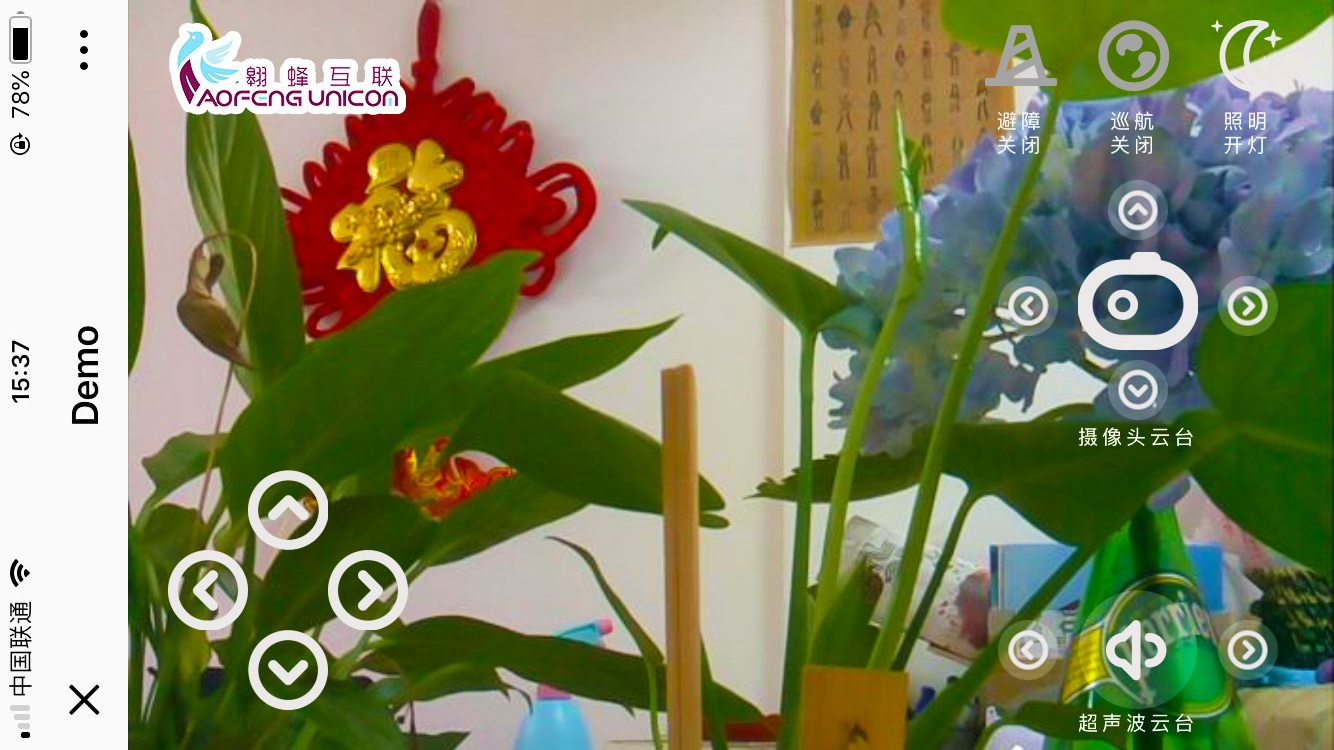
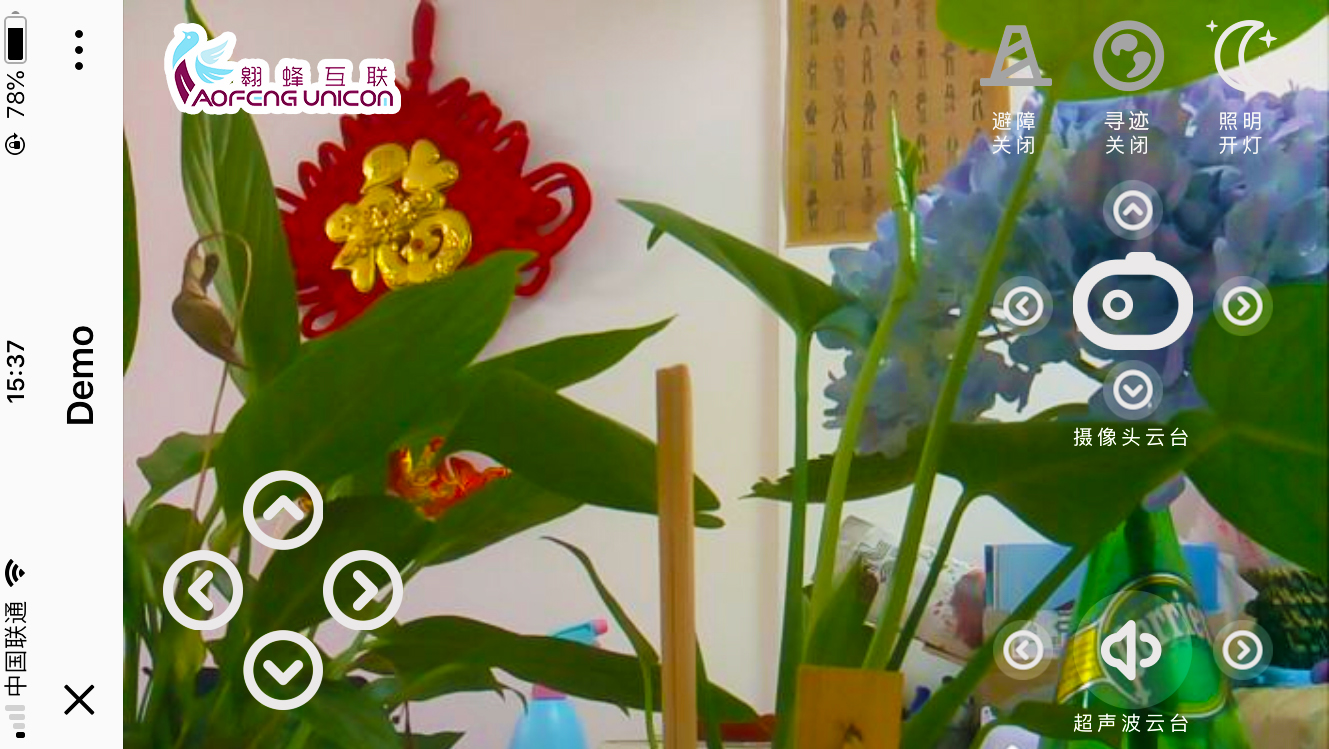
更新文件

diff --git a/static/css/play.css b/static/css/play.css
@@ -14,8 +14,8 @@
     /*左侧按钮区*/
     .controlwarp{
       position: absolute;
-      left:10px;
-      bottom: 10px;
+      left:20px;
+      bottom: 20px;
       width: 120px;
       height: 120px;
     }
@@ -116,7 +116,7 @@
       letter-spacing: 2px
     }
     .functiontop{
-      width: 120px;
+      width: 180px;
       text-align:center;
       height: 60px;
       float: right;
@@ -125,6 +125,16 @@
       display: inline-block;
       width: 36px;
       margin:0 7px;
+    }
+    .functiontop span{
+      font-size: 10px;
+      color: #eee;
+      line-height: 8px;
+    }
+    .functiontop .text{
+      font-size: 10px;
+      color: #eee;
+      line-height: 2px;
     }
     /*巡航*/
     .cruise-off {
@@ -206,20 +216,58 @@
         background-size: cover;
       }
     }
+    /*避障*/
+    .autocross-off {
+      height:36px;
+      width: 36px;
+      background-image: url('../images/autocross-off@2x.png');
+    }
+
+    @media all and (-webkit-min-device-pixel-ratio: 1.5) {
+      .autocross-off {
+        background-image: url('../images/autocross-off@2x.png');
+        background-size: cover;
+      }
+    }
+    @media all and (-webkit-min-device-pixel-ratio: 2) {
+      .autocross-off {
+        background-image: url('../images/autocross-off@3x.png');
+        background-size: cover;
+      }
+    }
+    .autocross-on {
+      height:36px;
+      width: 36px;
+      background-image: url('../images/autocross-on@2x.png');
+    }
+
+    @media all and (-webkit-min-device-pixel-ratio: 1.5) {
+      .autocross-on {
+        background-image: url('../images/autocross-on@2x.png');
+        background-size: cover;
+      }
+    }
+    @media all and (-webkit-min-device-pixel-ratio: 2) {
+      .autocross-on {
+        background-image: url('../images/autocross-on@3x.png');
+        background-size: cover;
+      }
+    }
     /*中间摄像头*/
     .functionmiddle{
       width: 140px;
       text-align:center;
       position: relative;
-      height: 150px;
-      margin-top: 80px
+      height: 140px;
+      margin-top: 80px;
+      margin-left: 22px;
     }
 
     .camera-middle{
       display: inline-block;
       position: absolute;
       left: 40px;
-      top: 35px;
+      top: 30px;
     }
     .camera-text{
       line-height: 20px;
@@ -288,7 +336,7 @@
     .camera-right {
       position: absolute;
       left: 110px;
-      top: 50px;
+      top: 48px;
       height:30px;
       width: 30px;
       background-image: url('../images/sright@2x.png');
@@ -310,7 +358,7 @@
     .camera-down {
       position: absolute;
       left: 55px;
-      top: 100px;
+      top: 90px;
       height:30px;
       width: 30px;
       background-image: url('../images/sdown@2x.png');
@@ -331,7 +379,7 @@
 
     .camera-left {
       position: absolute;
-      top: 50px;
+      top: 48px;
       height:30px;
       width: 30px;
       background-image: url('../images/sleft@2x.png');
@@ -349,21 +397,38 @@
         background-size: cover;
       }
     }
+    .voice-texts{
+      padding:0;
+      font-size: 10px;
+      color: #f8f8f8;
+      line-height: 10px;
+      top: 124px;
+      left: 40px;
+      position:  absolute;
+    }
     /*下方超声波*/
     .functionbottom{
       width: 140px;
       text-align:center;
       height: 80px;
       position: absolute;
-      bottom: 0;
+      bottom: 10px;
+      margin-left: 22px;
     }
     .voice-middle{
       display: inline-block;
       position: absolute;
       left: 40px;
+      top: 20px;
     }
-    .voice-text{
+    .voice-textv{
       padding:0;
+      font-size: 10px;
+      color: #f8f8f8;
+      line-height: 10px;
+      top: 82px;
+      left: 40px;
+      position:  absolute;
     }
     .voice-off {
       height:60px;
@@ -404,7 +469,7 @@
     .voice-left {
       background-image: url('../images/sleft@2x.png');
       position: absolute;
-      top: 15px;
+      top: 35px;
       height:30px;
       width: 30px;
     }
@@ -425,7 +490,7 @@
       background-image: url('../images/sright@2x.png');
       position: absolute;
       left: 110px;
-      top: 15px;
+      top: 35px;
       height:30px;
       width: 30px;
     }

diff --git a/templates/index.html b/templates/index.html
@@ -30,13 +30,13 @@
       <div class="functionwarp">
         <div class="functiontop">
           <div class="functiontop-left">
-            <div class="autocross-off"></div><p class="autocross-text">开启</p>
+            <div class="autocross-off"></div><span>避障</span><p class="autocross-text text">开启</p>
           </div>
           <div class="functiontop-left">
-            <div class="cruise-off"></div><p class="cruise-text">开启</p>
+            <div class="cruise-off"></div><span>寻迹</span><p class="cruise-text text">开启</p>
           </div>
           <div class="functiontop-right">
-            <div class="light-off"></div><p class="light-text">开启</p>
+            <div class="light-off"></div><span>照明</span><p class="light-text text">开启</p>
           </div>
         </div>
         <div class="functionmiddle">
@@ -44,18 +44,20 @@
           <div class="camera-right btnsmall"></div>
           <div class="camera-down btnsmall"></div>
           <div class="camera-left btnsmall"></div>
-          <div class="camera-middle"><div class="camera-on"></div><p class="voice-text">摄像头云台</p></div>
+          <div class="camera-middle"><div class="camera-on"></div></div>
+          <p class="voice-texts">摄像头云台</p>
         </div>
         <div class="functionbottom">
           <div class="voice-left btnsmall"></div>
           <div class="voice-right btnsmall"></div>
-          <div class="voice-middle"><div class="voice-on"></div><p class="voice-text">超声波云台</p></div>
+          <div class="voice-middle"><div class="voice-on"></div></div>
+          <p class="voice-textv">超声波云台</p>
         </div>
       </div>
     </div>
   </div>
   <div>
-    <img id="streamimage" class="" src="http://192.168.1.222:8080/?action=stream">
+    <img id="streamimage" class="" src="http://192.168.0.214:8080/?action=stream" width="100%" height="100%">
   </div>
   <script>
     $(document).ready(function(){
